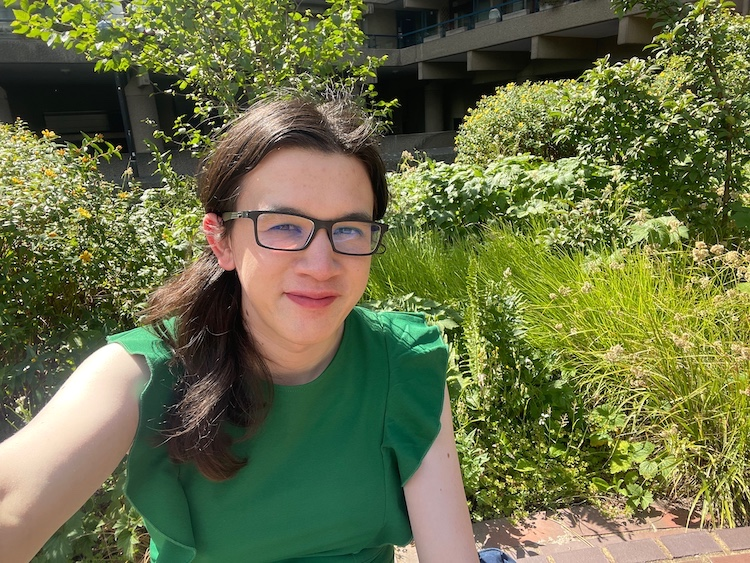
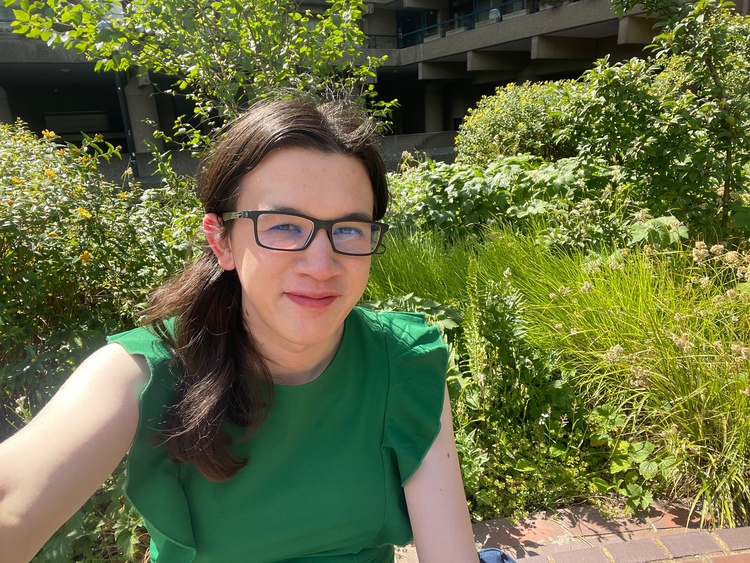
let's webp up this cover image also

diff --git a/scripts/prepare_image.rb b/scripts/prepare_image.rb
@@ -138,8 +138,7 @@ if opts[:link_to_full_size]
   EOF
 else
   puts <<-EOF
-
-  \e[0;35m#{inner_html}\e[0m
+\e[0;35m#{inner_html}\e[0m
   EOF
 end
 

diff --git a/src/index.md b/src/index.md
@@ -17,7 +17,26 @@ theme:
   }
 </style>
 
-<img src="/images/profile_green_1x.jpg" class="fullwidth_img rounded_corners" srcset="/images/profile_green_1x.jpg 1x, /images/profile_green_2x.jpg 2x" alt="A selfie! I’m smiling at the camera, wearing a green dress, and sitting in front of a large amount of green foliage. It’s a sunny day and shining both on the side of my face and the plants.">
+<picture>
+  <source
+    srcset="/images/profile_green_1x.webp 1x,
+            /images/profile_green_2x.webp 2x,
+            /images/profile_green_3x.webp 3x,
+            /images/profile_green_4x.webp 4x"
+    type="image/webp"
+  >
+  <source
+    srcset="/images/profile_green_1x.jpg 1x,
+            /images/profile_green_2x.jpg 2x,
+            /images/profile_green_3x.jpg 3x,
+            /images/profile_green_4x.jpg 4x"
+    type="image/jpeg"
+  >
+  <img
+    src="/images/profile_green_1x.jpg"
+    alt="A selfie! I’m smiling at the camera, wearing a green dress, and sitting in front of a large amount of green foliage. It’s a sunny day and shining both on the side of my face and the plants."
+  >
+</picture>
 
 ## Hi, I'm Alex.
 
